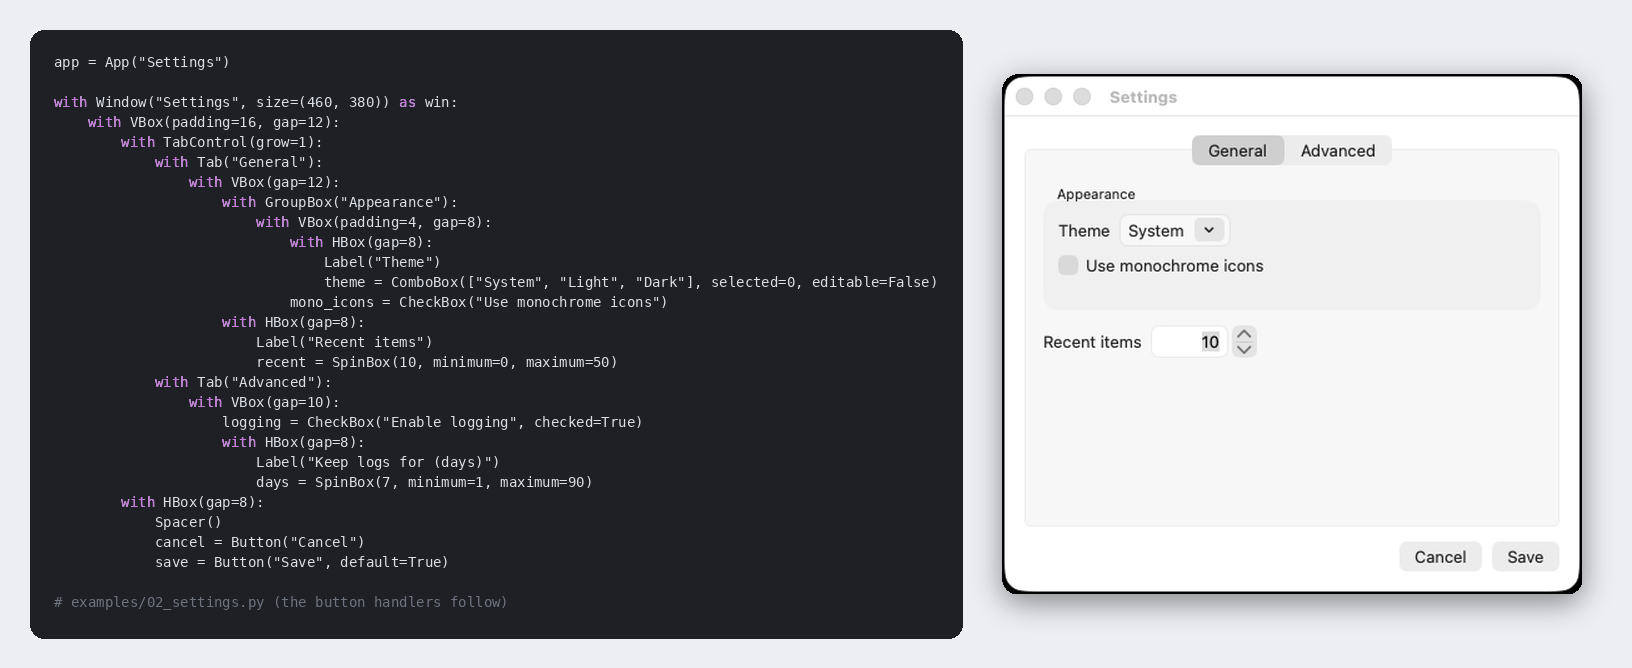
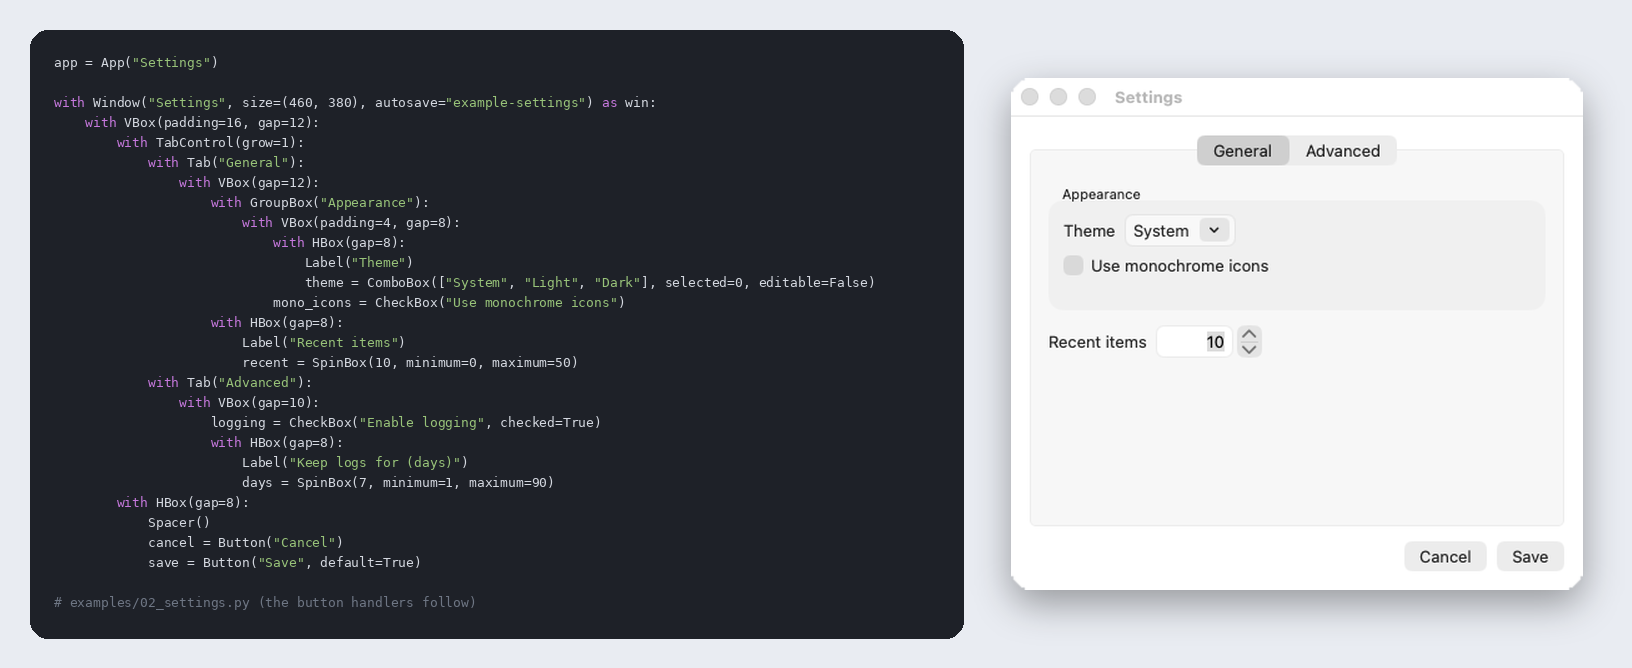
Rebuild hero image without the black window rim
Add tools/make_hero.py: crops the capture margin, floods the dark corner pixels
into an alpha mask and composites the window with a soft shadow.

Claude-Session: https://claude.ai/code/session_01YTG7ud9vDEVRBWGY1pFzgb

diff --git a/tools/make_hero.py b/tools/make_hero.py
@@ -1,0 +1,114 @@
+"""Build docs/hero.png: example code on the left, the real window screenshot on the right.
+
+Usage: python tools/make_hero.py   (needs Pillow, which is a dev tool only, not a dependency)
+
+The window comes from docs/screenshots/settings.png (CI capture). That capture has a 2 px black
+margin and black corners, so the margin is cropped and the dark corner pixels are flooded away into an alpha mask
+before it is composited with a soft shadow.
+"""
+from pathlib import Path
+
+from PIL import Image, ImageDraw, ImageFilter, ImageFont
+
+ROOT = Path(__file__).resolve().parent.parent
+SIZE = (1632, 668)
+BG = (233, 236, 242)
+PANEL = (30, 33, 40)
+FG = (212, 216, 224)
+KEYWORD = (198, 120, 221)
+STRING = (152, 195, 121)
+COMMENT = (110, 118, 132)
+MONO = "/usr/share/fonts/truetype/dejavu/DejaVuSansMono.ttf"
+KEYWORDS = {"with", "as", "from", "import"}
+CODE_FIRST, CODE_LAST = "with Window", "save = Button"
+MARGIN = 3
+
+
+def code_lines():
+    lines = (ROOT / "examples" / "02_settings.py").read_text().splitlines()
+    start = next(i for i, l in enumerate(lines) if l.startswith(CODE_FIRST))
+    end = next(i for i, l in enumerate(lines) if CODE_LAST in l)
+    return ["app = App(\"Settings\")", ""] + lines[start:end + 1] + ["", "# examples/02_settings.py (the button handlers follow)"]
+
+
+def draw_code(draw, box, lines, font):
+    x0, y0, x1, y1 = box
+    draw.rounded_rectangle(box, radius=18, fill=PANEL)
+    step = font.getlength("m")
+    y = y0 + 24
+    for line in lines:
+        x = x0 + 24
+        if line.startswith("#"):
+            draw.text((x, y), line, font=font, fill=COMMENT)
+        else:
+            indent = len(line) - len(line.lstrip())
+            x += indent * step
+            i, text = 0, line.lstrip()
+            while i < len(text):
+                if text[i] == '"':
+                    j = text.index('"', i + 1) + 1
+                    draw.text((x, y), text[i:j], font=font, fill=STRING)
+                    x += (j - i) * step
+                    i = j
+                elif text[i].isalpha() or text[i] == "_":
+                    j = i
+                    while j < len(text) and (text[j].isalnum() or text[j] == "_"):
+                        j += 1
+                    word = text[i:j]
+                    draw.text((x, y), word, font=font, fill=KEYWORD if word in KEYWORDS else FG)
+                    x += (j - i) * step
+                    i = j
+                else:
+                    draw.text((x, y), text[i], font=font, fill=FG)
+                    x += step
+                    i += 1
+        y += 20
+
+
+def window_image():
+    shot = Image.open(ROOT / "docs" / "screenshots" / "settings.png").convert("RGB")
+    w, h = shot.size
+    shot = shot.crop((MARGIN, MARGIN, w - MARGIN, h - MARGIN))
+    w, h = shot.size
+    out = shot.convert("RGBA")
+    mask = Image.new("L", (w, h), 255)
+    gray = shot.convert("L")
+    # Flood the dark corner pixels from each corner; the window itself is light there.
+    for cx, cy in ((0, 0), (w - 1, 0), (0, h - 1), (w - 1, h - 1)):
+        sx, sy = (1 if cx == 0 else -1), (1 if cy == 0 else -1)
+        seen, todo = set(), [(cx, cy)]
+        while todo:
+            x, y = todo.pop()
+            if (x, y) in seen or not (0 <= x < w and 0 <= y < h) or abs(x - cx) > 30 or abs(y - cy) > 30:
+                continue
+            seen.add((x, y))
+            if gray.getpixel((x, y)) > 200:
+                continue
+            mask.putpixel((x, y), 0)
+            todo += [(x + 1, y), (x - 1, y), (x, y + 1), (x, y - 1)]
+    mask = mask.filter(ImageFilter.MinFilter(3)).filter(ImageFilter.GaussianBlur(0.6))
+    out.putalpha(mask)
+    return out
+
+
+def main():
+    img = Image.new("RGB", SIZE, BG)
+    draw = ImageDraw.Draw(img)
+    lines = code_lines()
+    draw_code(draw, (30, 30, 963, SIZE[1] - 30), lines, ImageFont.truetype(MONO, 13))
+    win = window_image()
+    k = 1.25
+    win = win.resize((round(win.width * k), round(win.height * k)), Image.LANCZOS)
+    x = 963 + (SIZE[0] - 963 - win.width) // 2
+    y = (SIZE[1] - win.height) // 2
+    shadow = Image.new("RGBA", SIZE, (0, 0, 0, 0))
+    shadow.paste((0, 0, 0, 90), (x, y + 14), win.getchannel("A"))
+    shadow = shadow.filter(ImageFilter.GaussianBlur(18))
+    base = img.convert("RGBA")
+    base.alpha_composite(shadow)
+    base.alpha_composite(win, (x, y))
+    base.convert("RGB").save(ROOT / "docs" / "hero.png", optimize=True)
+
+
+if __name__ == "__main__":
+    main()
